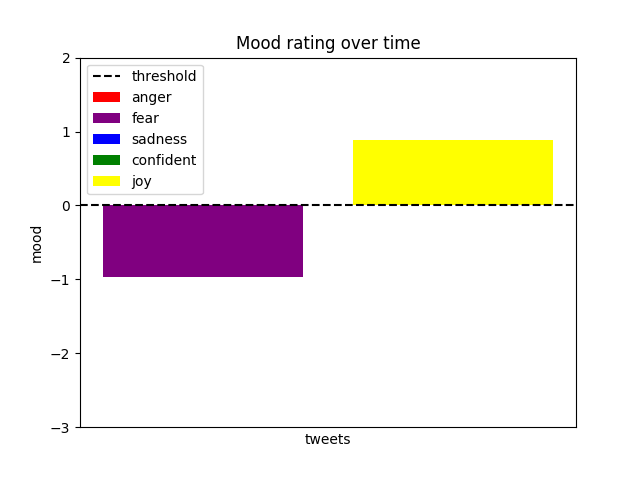
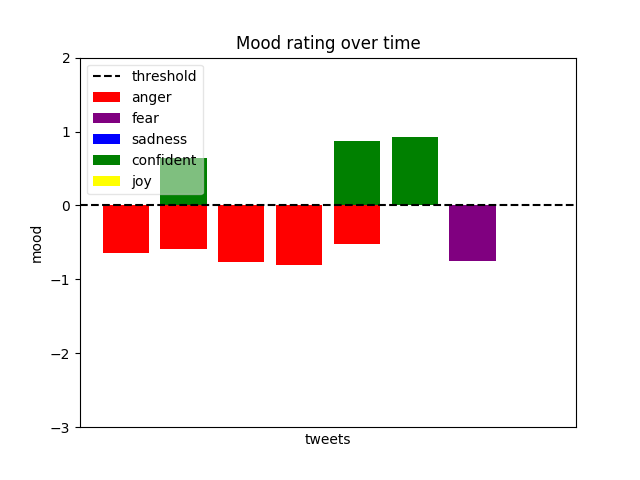
make legend transparent

Changed region(s): [[0.1562, 0.2812, 0.875, 0.5938]]

diff --git a/helper.py b/helper.py
@@ -93,7 +93,7 @@ def graph():
 
     
 
-    plt.legend(names, loc=2)
+    plt.legend(names, loc=2, fancybox=True, framealpha=0.5)
     plt.ylim([-3, 2])
     plt.tick_params(
         axis='x',
@@ -108,10 +108,10 @@ def graph():
     plt.savefig('foo.png')
 
 #testing
-analyzer("I am scared of ghost")
-analyzer("I love here")
-graph()
-print(emotions)
+# analyzer("I am scared of ghost")
+# analyzer("I love here")
+# graph()
+# print(emotions)
 
 # print(json.dumps(tone_analysis, indent=2))
 
